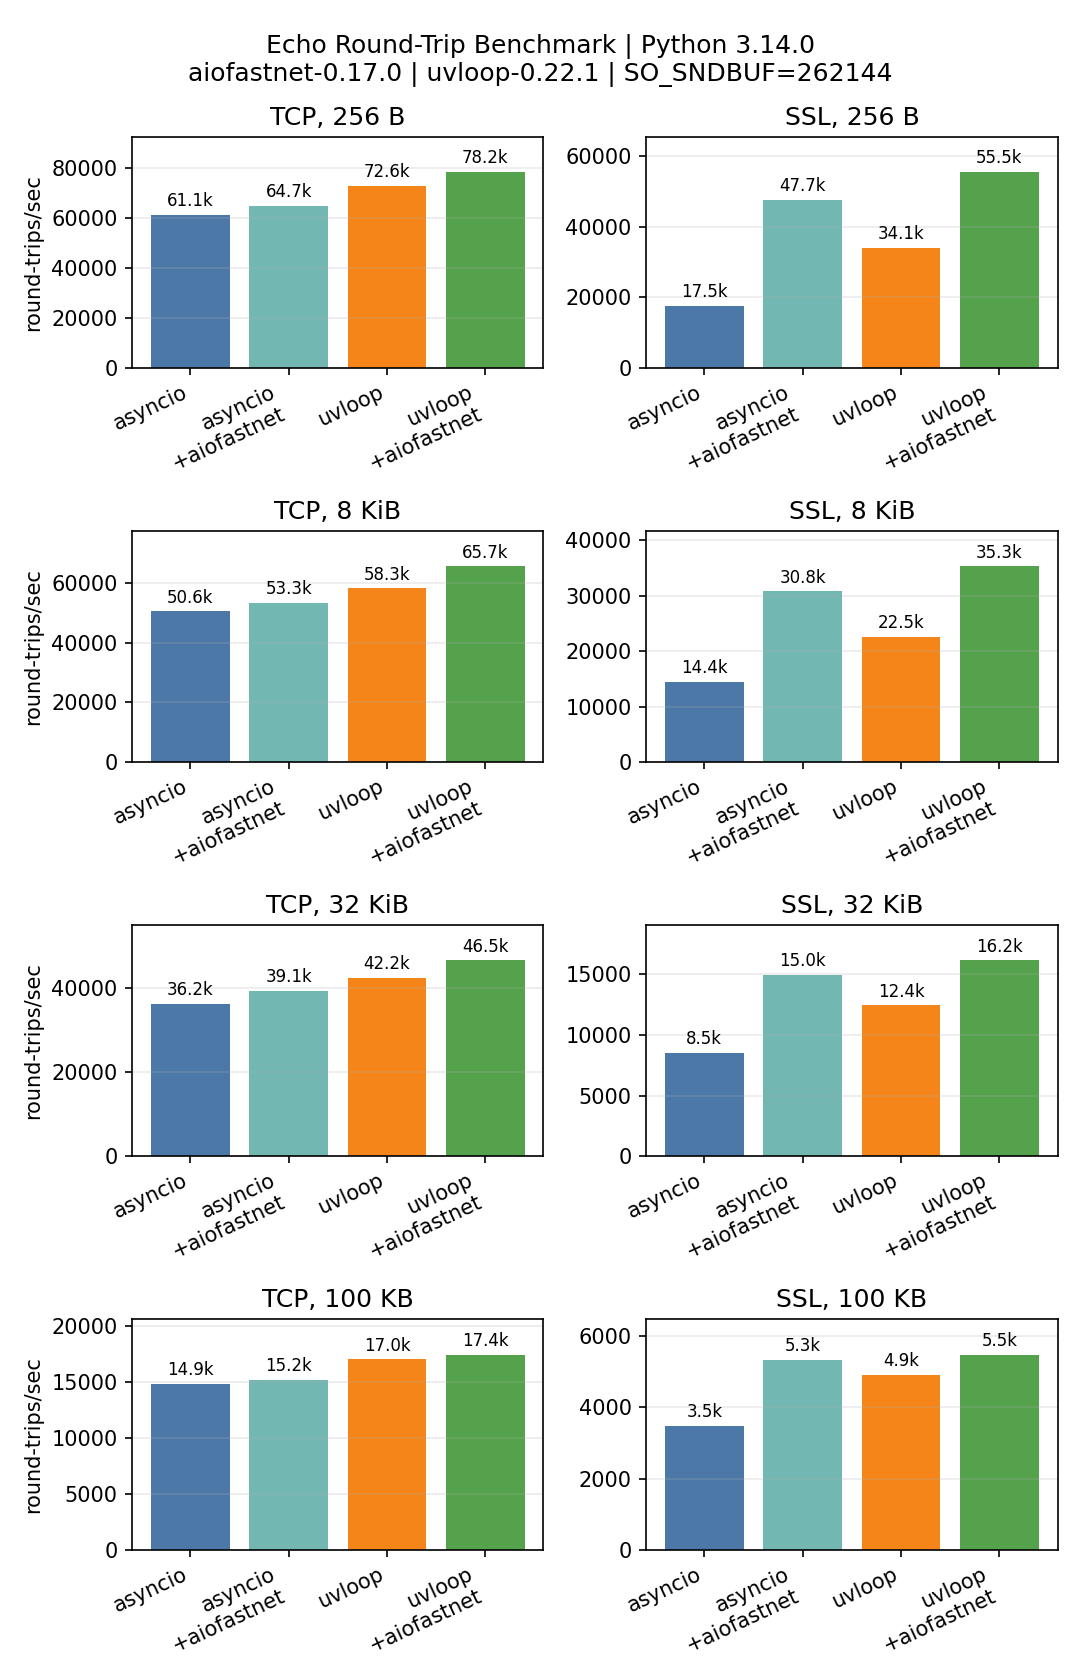
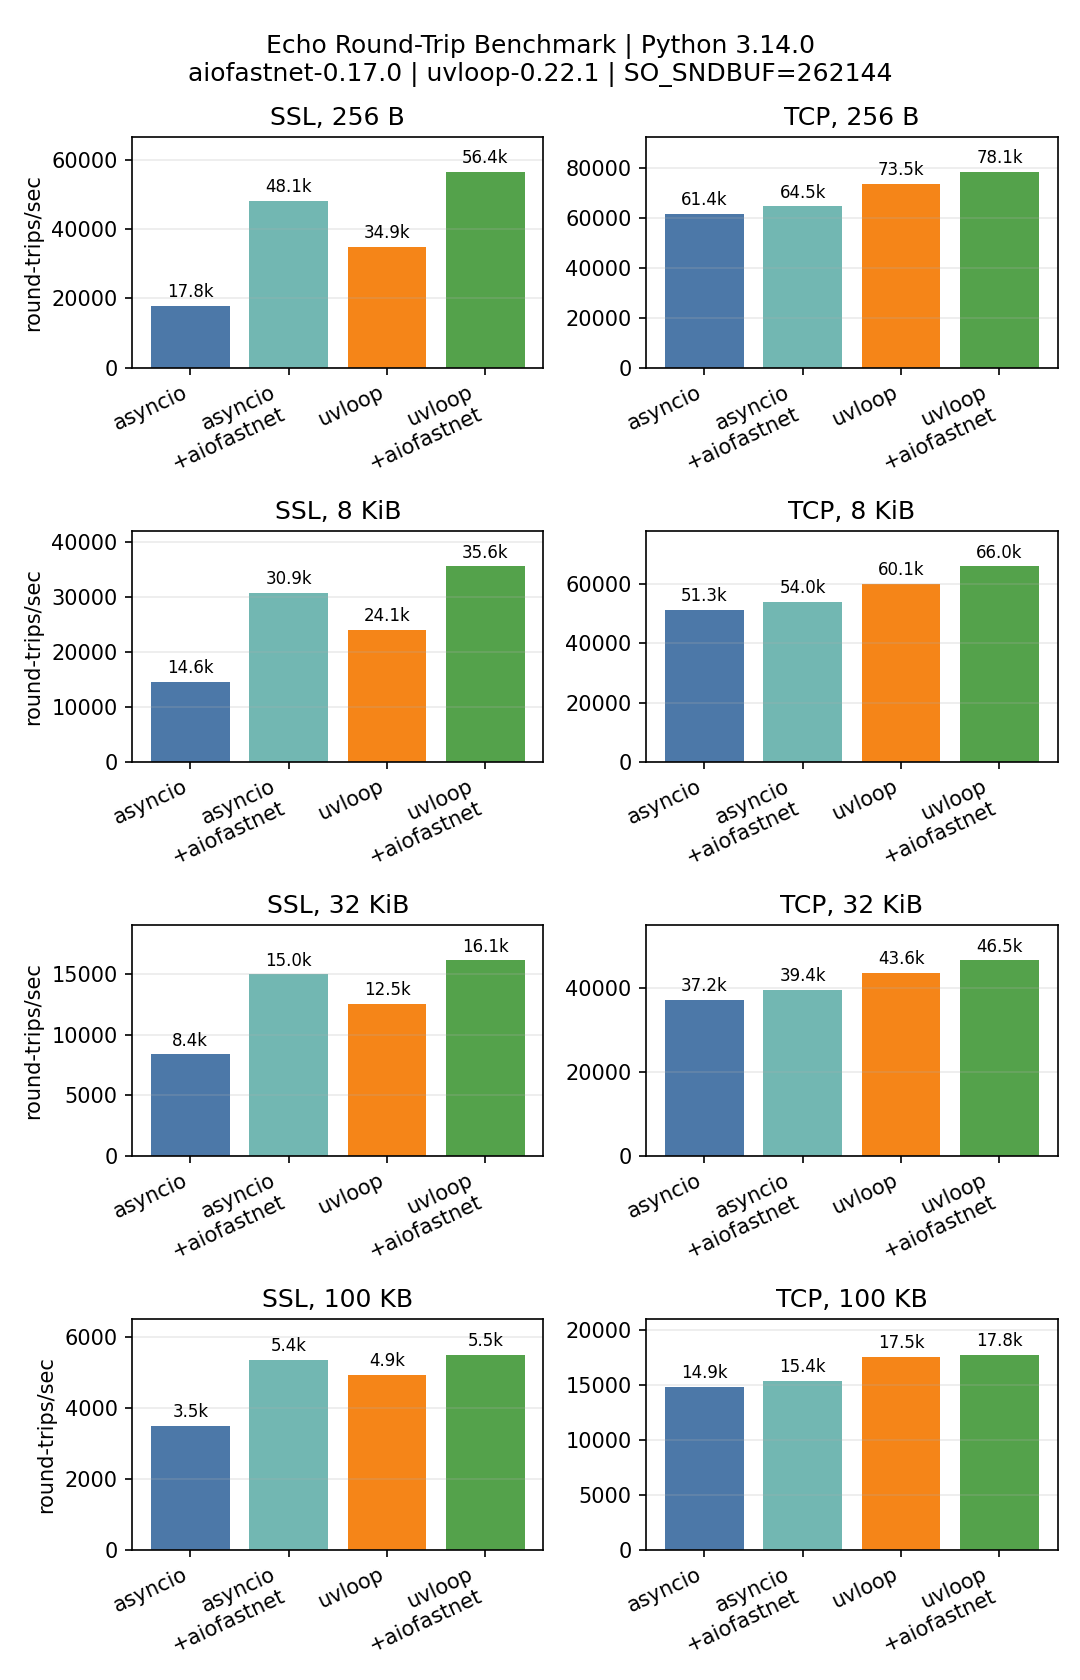
Update benchmark results

diff --git a/examples/benchmark.py b/examples/benchmark.py
@@ -53,7 +53,7 @@ def _plot_results(
     uvloop_version: str,
     save_plot: bool,
 ) -> None:
-    transports = [transport for transport in ("tcp", "ssl") if transport in results]
+    transports = [transport for transport in ("ssl", "tcp") if transport in results]
     if not transports:
         return
 